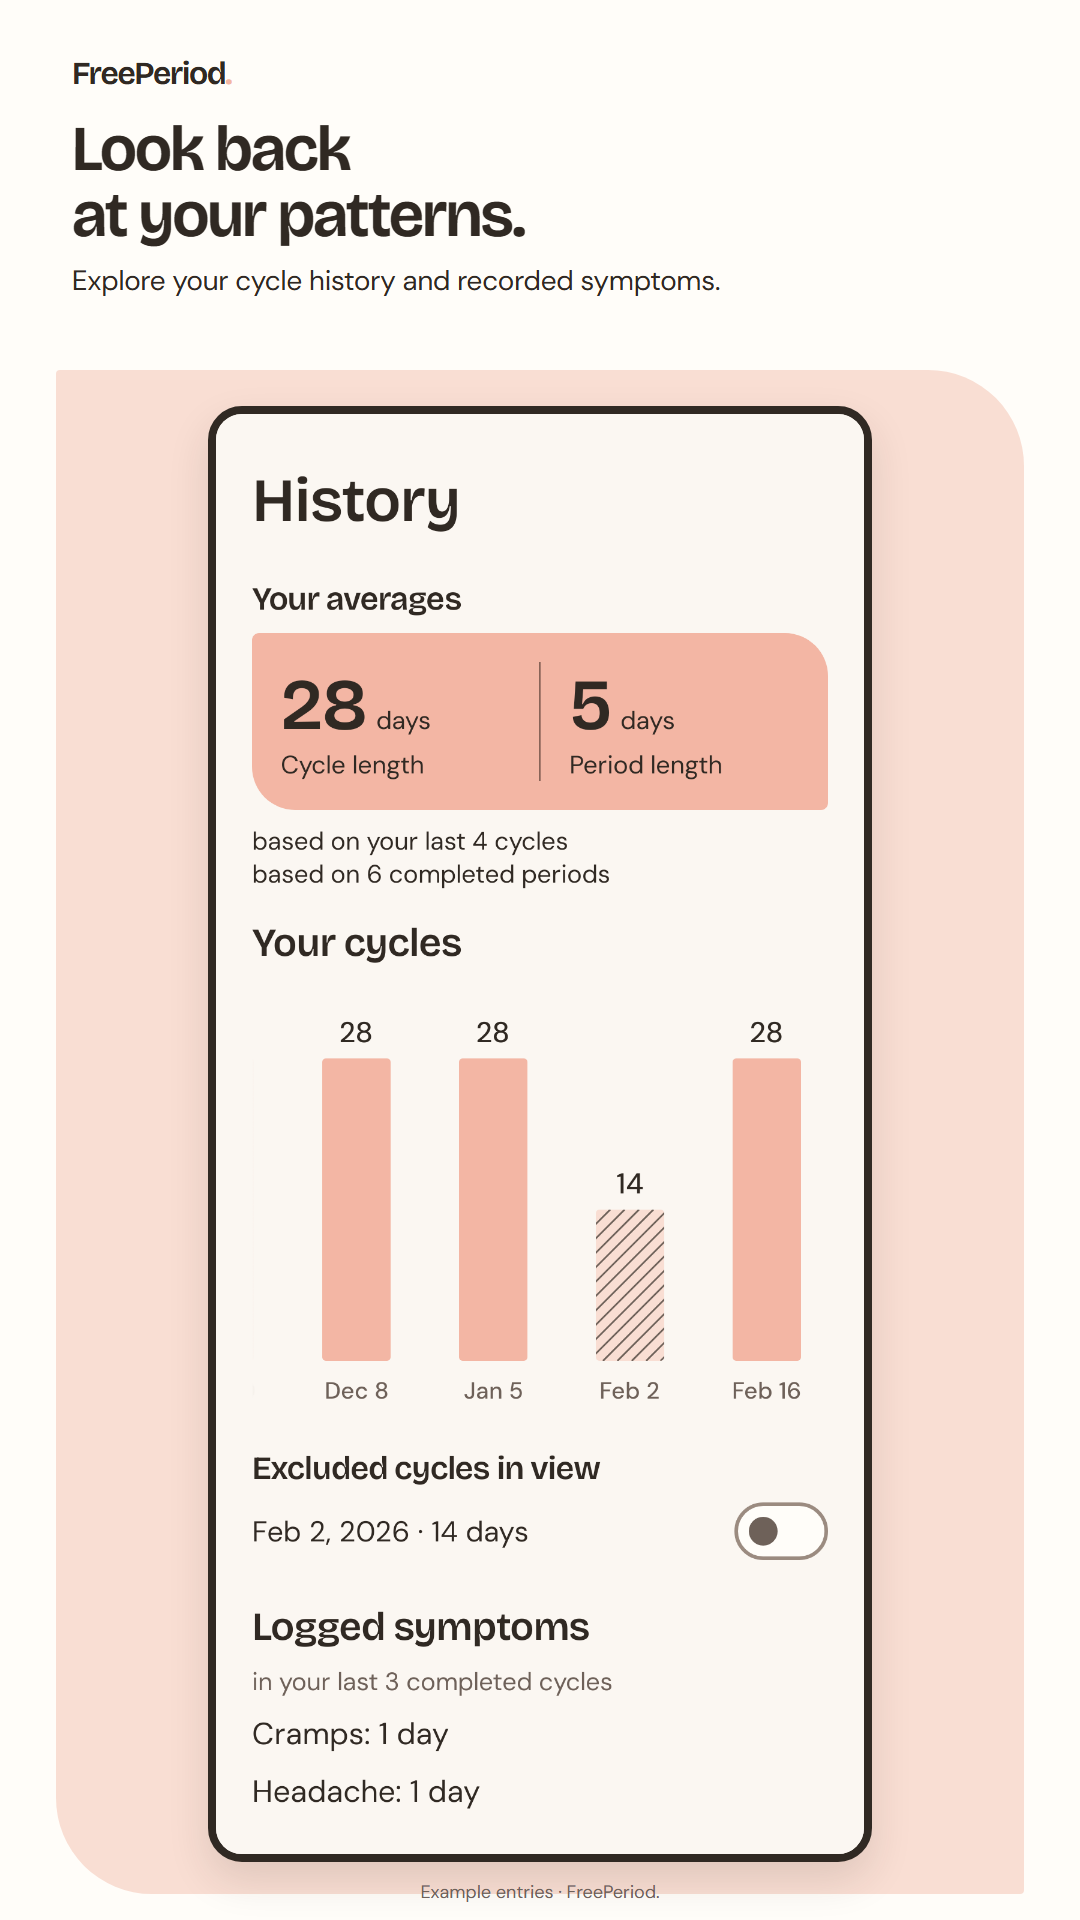
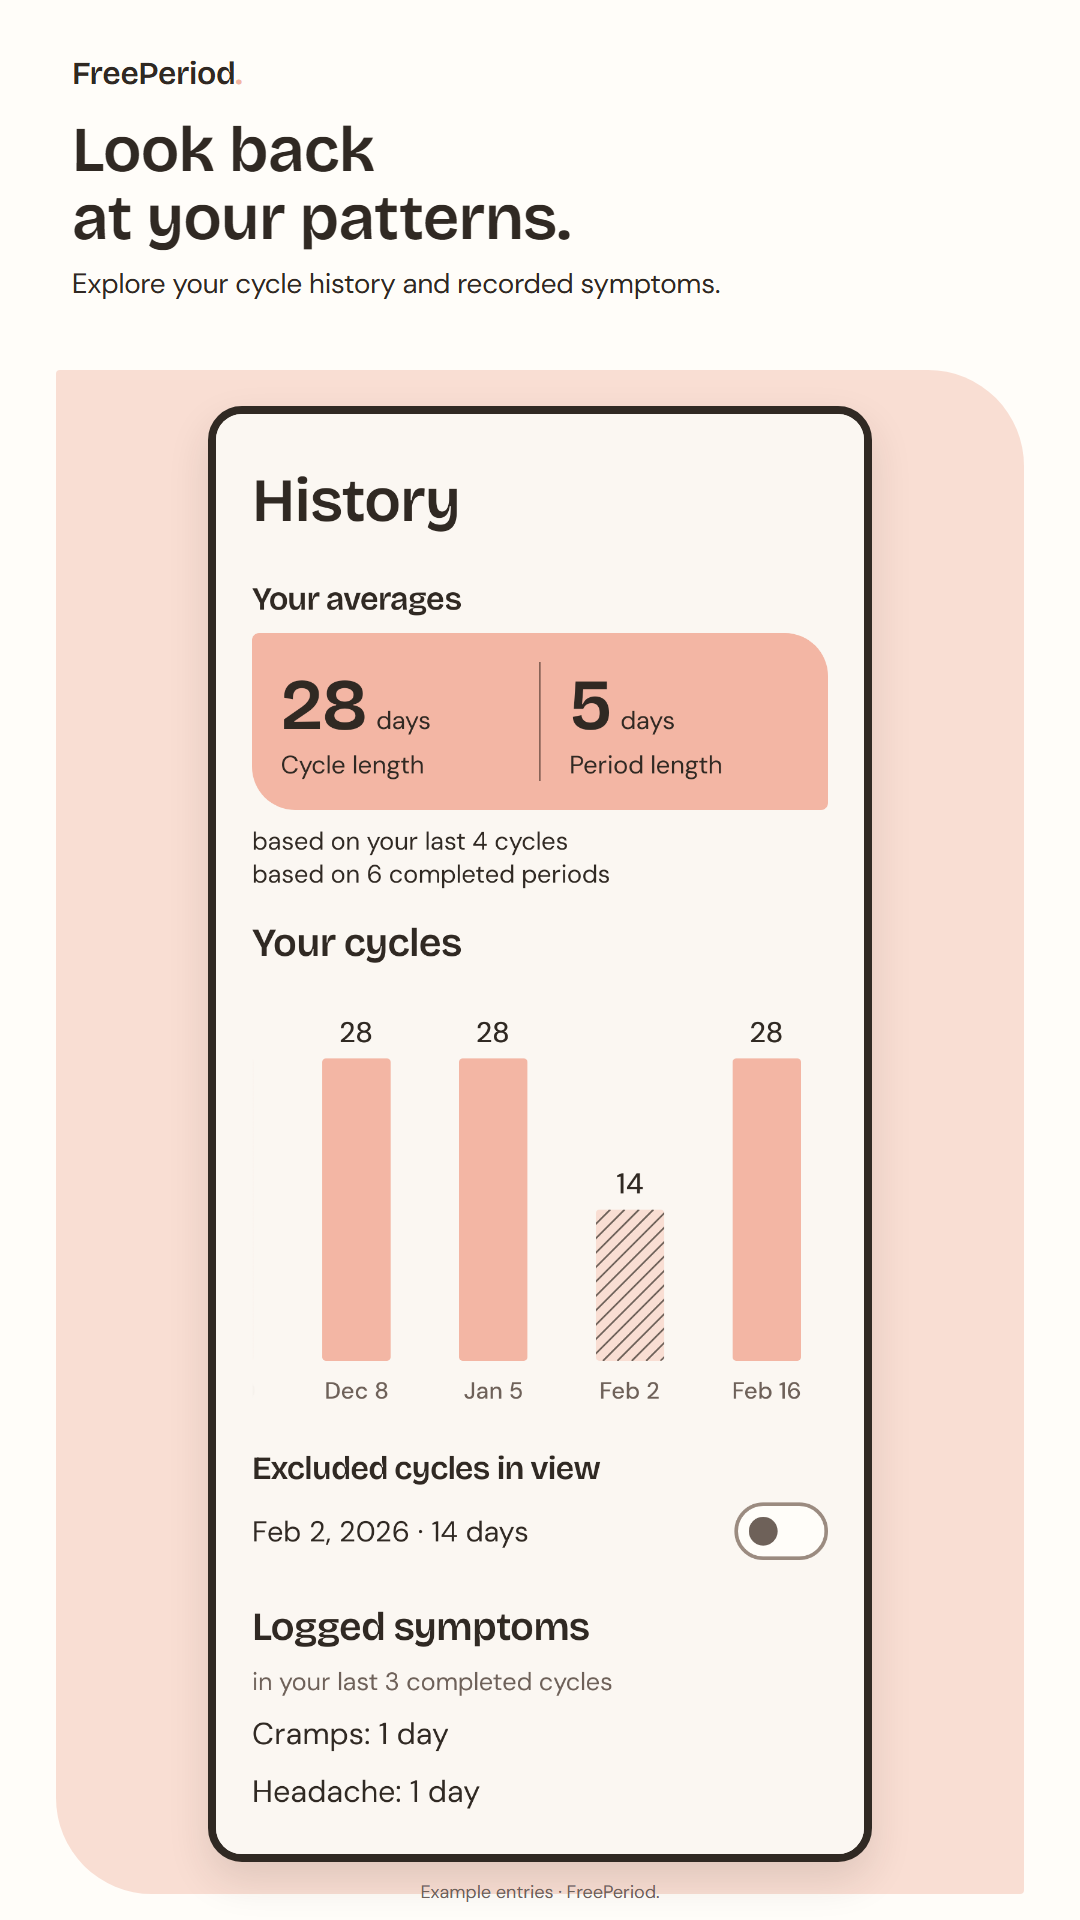
store, site: headings use the app's Bricolage cut (SemiBold, opsz 24, normal width)

Changed region(s): [[0.0611, 0.0312, 0.6722, 0.1562]]

diff --git a/site/styles.css b/site/styles.css
@@ -28,14 +28,15 @@ body { margin: 0; color: var(--ink); font: 1rem/1.65 var(--body); }
 a { color: var(--link); text-underline-offset: .22em; }
 a:hover { text-decoration-thickness: 2px; }
 a:focus-visible { outline: 3px solid var(--ink); outline-offset: 5px; border-radius: 2px; }
-h1, h2, h3, .wordmark { font-family: var(--heading); font-weight: 650; line-height: 1.12; }
+/* Same cut as the app (Type.kt): SemiBold, optical size 24, normal width – not the browser's automatic display cut. */
+h1, h2, h3, .wordmark { font-family: var(--heading); font-weight: 600; font-variation-settings: "opsz" 24, "wdth" 100; line-height: 1.12; }
 h1, h2, h3, p { margin-top: 0; }
-h1 { font-size: clamp(2.1rem, 6vw, 3.5rem); letter-spacing: -.04em; }
-h2 { margin-top: 2rem; font-size: 1.45rem; letter-spacing: -.02em; }
+h1 { font-size: clamp(2.1rem, 6vw, 3.5rem); letter-spacing: -.01em; }
+h2 { margin-top: 2rem; font-size: 1.45rem; letter-spacing: -.01em; }
 .stop { color: var(--coral); }
 .shell { width: min(100% - 40px, 960px); margin-inline: auto; }
 .site-header { padding-block: 28px; display: flex; align-items: center; justify-content: space-between; gap: 20px; flex-wrap: wrap; }
-.wordmark { font-size: 1.6rem; letter-spacing: -.04em; color: var(--ink); text-decoration: none; }
+.wordmark { font-size: 1.6rem; letter-spacing: -.01em; color: var(--ink); text-decoration: none; }
 .site-header nav, .site-footer nav { display: flex; flex-wrap: wrap; gap: 12px 24px; }
 .site-footer { margin-top: 56px; padding-block: 24px 40px; border-top: 1px solid var(--line); color: var(--muted); font-size: .9rem; }
 .site-footer p { margin: 12px 0 0; }

diff --git a/store/artwork.css b/store/artwork.css
@@ -11,7 +11,7 @@ body.artwork { margin: 0; padding: 48px; width: max-content; }
 }
 .feature-copy { position: absolute; left: 56px; top: 40px; width: 580px; }
 .feature .wordmark { font-size: 38px; }
-.feature h1 { font-size: 66px; line-height: 1.02; letter-spacing: -2.5px; margin: 42px 0 20px; }
+.feature h1 { font-size: 66px; line-height: 1.06; letter-spacing: -0.6px; margin: 42px 0 20px; }
 .feature p { font-size: 20px; line-height: 1.45; max-width: 440px; }
 .feature .feature-foot { position: absolute; bottom: 28px; left: 56px; margin: 0; font-size: 17px; }
 .feature-phone {
@@ -26,7 +26,7 @@ body.artwork { margin: 0; padding: 48px; width: max-content; }
 .shot::before { content: ""; position: absolute; inset: 370px 56px 26px; background: #f9ded3; border-radius: 4px 96px 4px 96px; }
 .shot header { position: absolute; top: 56px; left: 72px; right: 72px; }
 .shot .wordmark { font-size: 32px; }
-.shot h2 { font-size: 64px; line-height: 1.03; letter-spacing: -2px; margin: 24px 0 14px; }
+.shot h2 { font-size: 64px; line-height: 1.06; letter-spacing: -0.6px; margin: 24px 0 14px; }
 .shot .caption { font-size: 28px; line-height: 1.35; max-width: 860px; margin: 0; }
 .phone-frame {
   position: absolute; top: 406px; left: 50%; transform: translateX(-50%);
